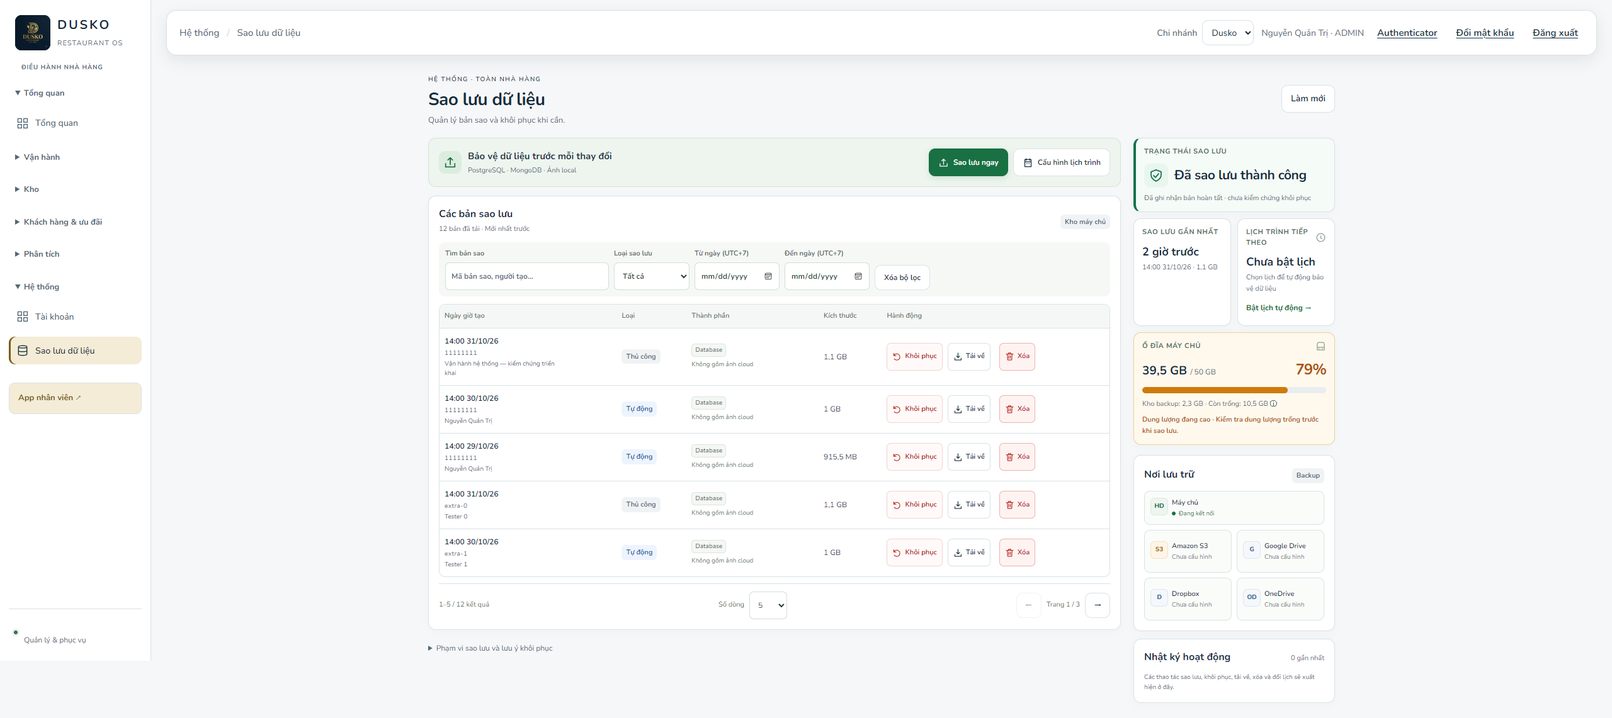
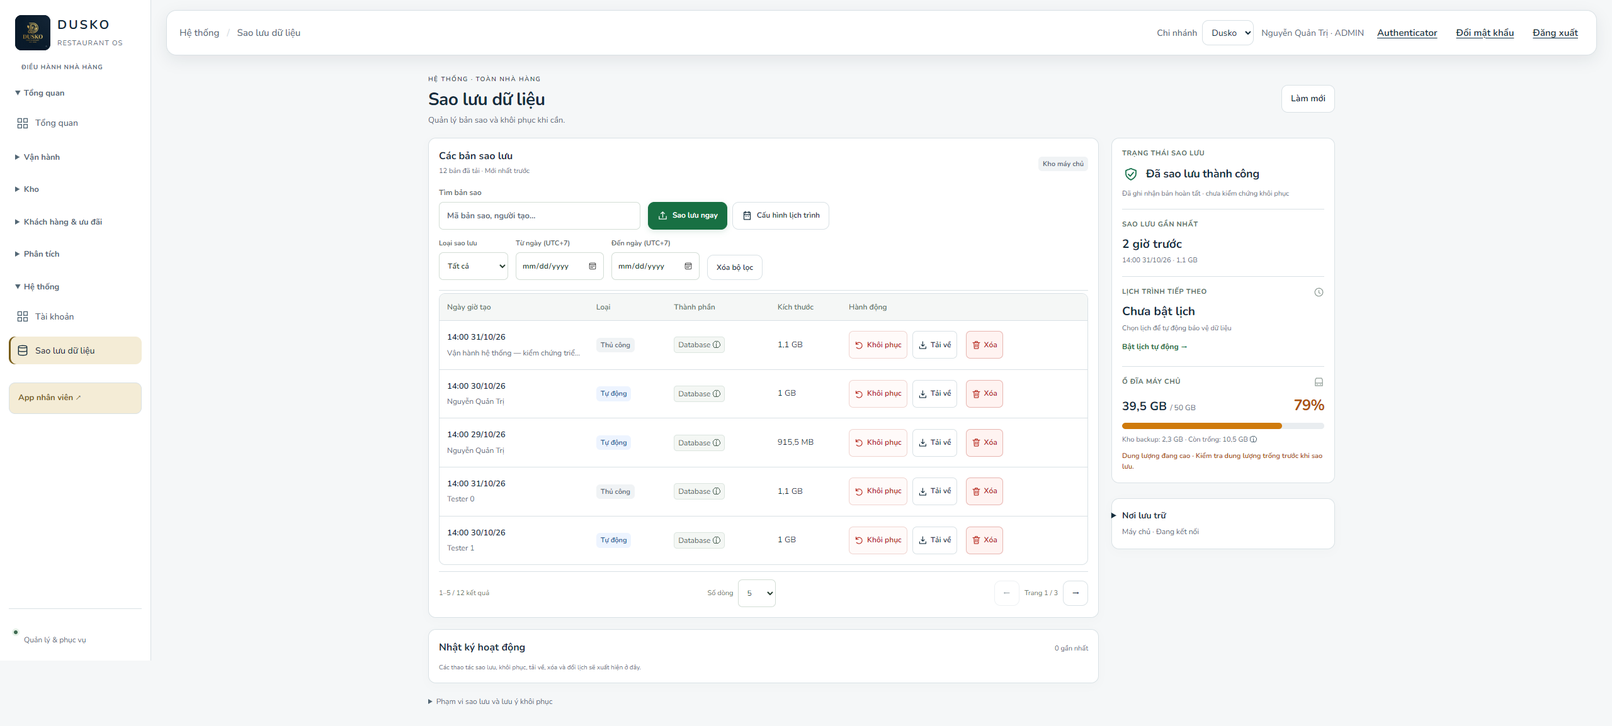
refactor: rebalance backup workspace and unify archive toolbar

diff --git a/src/backup-status.css b/src/backup-status.css
@@ -6,39 +6,37 @@
 .backup-console .bk-heading p{font-size:13px;margin:0;color:var(--muted)}
 .bk-workspace{display:grid;grid-template-areas:"overview" "main" "secondary";gap:16px;align-items:start}
 .bk-main{grid-area:main;min-width:0;display:grid;gap:14px;align-content:start}
-.bk-overview{grid-area:overview;display:grid;grid-template-columns:repeat(2,minmax(0,1fr));gap:10px;min-width:0}
+.bk-overview{grid-area:overview;display:grid;grid-template-columns:repeat(2,minmax(0,1fr));gap:0;min-width:0;background:#fff;border:1px solid var(--bk-line);border-radius:12px;padding:0 16px}
+.bk-overview>.bk-card{border:0;border-bottom:1px solid var(--bk-line);border-radius:0;padding:16px 0;background:#fff;box-shadow:none}.bk-overview>.bk-card:last-child{border-bottom:0}
 .bk-card{background:var(--panel,#fff);border:1px solid var(--bk-line);border-radius:12px;padding:16px;min-width:0;box-shadow:0 4px 16px #18344b05}
 .bk-card-label{display:flex;justify-content:space-between;align-items:center;gap:8px;margin-bottom:10px;font-size:11px;font-weight:750;letter-spacing:.05em;color:#62746b;line-height:1.5}
 .bk-card-label svg{width:17px;height:17px;flex:none;opacity:.7}
 .bk-card small{display:block;font-size:11px;color:var(--muted);line-height:1.6}
 .bk-value{display:block;font-size:21px;line-height:1.35;margin-bottom:4px}
-.bk-health{grid-column:1/-1;border-left:4px solid #c17a12}
+.bk-health{grid-column:1/-1}
 .bk-health-title{display:flex;gap:10px;align-items:center;margin-bottom:8px}
-.bk-health-title h2{font-size:21px;line-height:1.35;margin:0;letter-spacing:-.02em}
-.bk-health-icon{display:grid;place-items:center;width:38px;height:38px;flex:none;border-radius:10px;background:#fff4dc;color:#946a10}
+.bk-health-title h2{font-size:18px;line-height:1.35;margin:0;letter-spacing:-.02em}
+.bk-health-icon{display:grid;place-items:center;width:28px;height:28px;flex:none;background:transparent;color:#946a10}
 .bk-health-icon svg{width:24px;height:24px}
-.bk-health--success{border-left-color:var(--bk-green);background:#f5fbf7}
-.bk-health--success .bk-health-icon{background:#e9f6ee;color:var(--bk-green)}
-.bk-health--danger{border-left-color:var(--bk-red)}
-.bk-health--danger .bk-health-icon{background:#fff0ee;color:var(--bk-red)}
-.bk-health--info{border-left-color:var(--bk-blue);background:#f5f9ff}
-.bk-health--info .bk-health-icon{background:#e5effc;color:var(--bk-blue)}
+.bk-health--success{color:inherit}
+.bk-health--success .bk-health-icon{background:transparent;color:var(--bk-green)}
+.bk-health--danger{color:inherit}
+.bk-health--danger .bk-health-icon{background:transparent;color:var(--bk-red)}
+.bk-health--info{color:inherit}
+.bk-health--info .bk-health-icon{background:transparent;color:var(--bk-blue)}
 .bk-schedule-shortcut{border:0;padding:6px 0 0;background:transparent;color:var(--bk-accent);font-size:12px;font-weight:750;min-height:36px;text-align:left}
-.bk-storage{grid-column:1/-1;background:#f6f9f7;border-color:#cddbd2}
+.bk-storage{grid-column:1/-1;background:#fff}
 .bk-storage-numbers{display:flex;align-items:baseline;gap:5px;font-size:12px;margin-bottom:10px;flex-wrap:wrap}
 .bk-storage-numbers strong{font-size:19px}.bk-storage-numbers span{color:var(--muted)}.bk-storage-numbers b{margin-left:auto;font-size:24px;letter-spacing:-.04em}
 .bk-storage small{margin-top:8px}.bk-storage-placeholder{height:10px;border-radius:8px;background:#edf0f2}
 .bk-storage-alert{margin:8px 0 0;color:var(--bk-orange);font-size:11px;font-weight:650;line-height:1.6}
-.bk-storage--warning{background:#fff9ed;border-color:#edcf94}.bk-storage--warning .bk-storage-numbers b{color:var(--bk-orange)}
-.bk-storage--danger{background:#fff4f2;border-color:#edb4ad}.bk-storage--danger .bk-storage-numbers b,.bk-storage--danger .bk-storage-alert{color:var(--bk-red)}
+.bk-storage--warning{background:#fff}.bk-storage--warning .bk-storage-numbers b{color:var(--bk-orange)}
+.bk-storage--danger{background:#fff}.bk-storage--danger .bk-storage-numbers b,.bk-storage--danger .bk-storage-alert{color:var(--bk-red)}
 .bk-meter{appearance:none;-webkit-appearance:none;display:block;width:100%;height:10px;border:0;border-radius:99px;overflow:hidden;background:#e9edf0;color:var(--bk-accent)}
 .bk-meter::-webkit-progress-bar{background:#e9edf0;border-radius:99px}.bk-meter::-webkit-progress-value{background:var(--bk-accent);border-radius:99px;transition:width .3s}.bk-meter::-moz-progress-bar{background:var(--bk-accent);border-radius:99px}
 .bk-meter--warning::-webkit-progress-value{background:#cf7a0b}.bk-meter--warning::-moz-progress-bar{background:#cf7a0b}
 .bk-meter--danger::-webkit-progress-value{background:var(--bk-red)}.bk-meter--danger::-moz-progress-bar{background:var(--bk-red)}
-.bk-quick{display:flex;justify-content:space-between;align-items:center;flex-wrap:wrap;gap:14px;padding:16px;background:#edf5ee;border:1px solid #d4e3d6;border-radius:12px}
-.bk-quick>div:first-child{display:flex;gap:10px;align-items:center;max-width:300px}
-.bk-quick-icon{display:grid;place-items:center;width:36px;height:36px;flex:none;background:#dcecdf;border-radius:10px;color:var(--bk-accent)}
-.bk-quick h2{font-size:15px;margin:0 0 4px;line-height:1.5}.bk-quick p{margin:0;font-size:11px;color:var(--muted)}
+.bk-toolbar{display:flex;gap:12px;align-items:flex-end;flex-wrap:wrap;margin:16px 0 14px}.bk-toolbar .bk-search{display:grid;gap:6px;flex:1 1 200px;max-width:320px;font-size:12px;font-weight:650;color:#56675e}.bk-toolbar input{width:100%;min-width:0;height:44px;min-height:44px;padding:10px 12px;border:1px solid #d3ddd5;border-radius:7px;background:#fff;font-size:13px}.bk-toolbar .bk-quick-buttons{margin-left:0}
 .bk-quick-buttons{display:flex;gap:8px;flex-wrap:wrap;align-items:center}
 .backup-console .bk-quick-buttons .btn{display:inline-flex;align-items:center;justify-content:center;gap:7px;min-height:44px;padding:10px 14px;font-size:12px;white-space:nowrap;flex:none}
 .bk-quick-buttons .btn svg{width:17px;height:17px}
@@ -55,37 +53,39 @@
 @media(prefers-reduced-motion:reduce){.bk-running .bk-badge--info:before{animation:none}.bk-meter::-webkit-progress-value{transition:none}}
 .bk-error{color:var(--bk-red)!important;font-size:13px}
 .bk-badge{display:inline-flex;align-items:center;white-space:nowrap;padding:4px 7px;border-radius:6px;background:#f0f3f5;color:#596a76;font-size:11px;font-weight:650;line-height:1.4}
-.bk-badge--success{background:#eaf6ef;color:var(--bk-green)}.bk-badge--danger{background:#fff0ee;color:var(--bk-red)}.bk-badge--warning{background:#fff4dc;color:#946a10}.bk-badge--info{background:#edf4ff;color:var(--bk-blue)}
+.bk-badge--success{background:#eaf6ef;color:var(--bk-green)}.bk-badge--danger{background:transparent;color:var(--bk-red)}.bk-badge--warning{background:#fff4dc;color:#946a10}.bk-badge--info{background:#edf4ff;color:var(--bk-blue)}
 .bk-section-head{display:flex;justify-content:space-between;align-items:center;gap:10px;margin-bottom:12px}
 .bk-section-head h2{font-size:16px;margin:0}.bk-section-head p,.bk-section-head>span{margin:4px 0 0;font-size:11px;color:var(--muted)}
-.bk-filters{display:grid;grid-template-columns:repeat(2,minmax(0,1fr));gap:10px;align-items:end;padding:10px;background:#f6f8f6;border-radius:9px;margin-bottom:12px;justify-content:start}
+.bk-filters{display:grid;grid-template-columns:repeat(2,minmax(0,1fr));gap:12px;align-items:end;padding:0 0 16px;border-bottom:1px solid var(--bk-line);margin-bottom:4px;justify-content:start}
 .bk-filters label{display:grid;gap:6px;font-size:11px;font-weight:650;color:#56675e;min-width:0}
-.bk-filters .bk-search{grid-column:1/-1}.bk-filters label:nth-child(2){grid-column:1/-1}
+
 .bk-filters input,.bk-filters select,.bk-pagination select{height:44px;min-height:44px;border:1px solid #d3ddd5;border-radius:7px;padding:8px 9px;background:#fff;color:#263e30;min-width:0;width:100%;font-size:12px}
 .bk-filters .btn{min-height:40px;font-size:12px;grid-column:1/-1;justify-self:start}
-.bk-filters input:focus-visible,.bk-filters select:focus-visible,.bk-pagination select:focus-visible,.backup-console button:focus-visible,.bk-help summary:focus-visible{outline:2px solid #187043;outline-offset:3px}
-.backup-console .bk-archives table{min-width:720px;width:100%;border-collapse:collapse;table-layout:auto}
-.backup-console .bk-archives th{padding:10px 8px;text-transform:none;letter-spacing:0;font-size:11px;white-space:nowrap;background:#f5f7f6;color:#607268}
-.backup-console .bk-archives td{padding:11px 8px;font-size:12px;vertical-align:middle;border-bottom:1px solid var(--bk-line);white-space:normal}
-.bk-archives tbody tr:last-child td{border-bottom:0}.bk-archives td strong{font-size:12px;font-weight:650;white-space:nowrap}
-.bk-archive-id{font-size:10px!important;letter-spacing:.05em;margin-top:2px}.bk-archive-actor{overflow-wrap:anywhere;max-width:180px;margin-top:2px;font-size:10px!important;line-height:1.5!important}
+.bk-toolbar input:focus-visible,.bk-filters select:focus-visible,.bk-pagination select:focus-visible,.backup-console button:focus-visible,.bk-help summary:focus-visible{outline:2px solid #187043;outline-offset:3px}
+.backup-console .bk-archives table{min-width:740px;width:100%;border-collapse:collapse;table-layout:fixed}
+.backup-console .bk-archives th{padding:12px;text-transform:none;letter-spacing:0;font-size:12px;white-space:nowrap;background:#f5f7f6;color:#607268}
+.backup-console .bk-archives td{padding:16px 12px;font-size:13px;line-height:1.65;vertical-align:middle;border-bottom:1px solid var(--bk-line);white-space:normal}
+.bk-archives th:nth-child(1){width:23%}.bk-archives th:nth-child(2){width:12%}.bk-archives th:nth-child(3){width:16%}.bk-archives th:nth-child(4){width:11%}.bk-archives th:nth-child(5){width:38%}
+.bk-archives tbody tr:last-child td{border-bottom:0}.bk-archives td strong{font-size:13px;font-weight:650;white-space:nowrap}
+.bk-archive-id{display:none!important}.bk-archive-actor{width:100%;max-width:220px;min-width:0;margin-top:4px;font-size:12px!important;line-height:1.6!important;white-space:nowrap;overflow:hidden;text-overflow:ellipsis}
 .bk-components{display:flex;gap:4px;flex-wrap:wrap;max-width:130px}
-.bk-component{display:inline-flex;border:1px solid #dce5df;background:#f4f7f4;border-radius:5px;padding:2px 5px;font-size:10px;white-space:nowrap;line-height:1.5;color:#4b6254}
+.bk-component{display:inline-flex;border:1px solid #dce5df;background:#f4f7f4;border-radius:5px;padding:3px 6px;font-size:12px;white-space:nowrap;line-height:1.5;color:#4b6254}
 .bk-cloud-note{font-size:10px;color:#65746b;white-space:nowrap;width:100%;line-height:1.6}
 .bk-row-actions{display:flex;align-items:center;gap:8px}
-.bk-action{display:inline-flex;align-items:center;justify-content:center;gap:5px;font:inherit;font-size:11px;font-weight:650;border:1px solid var(--bk-line);background:#fff;border-radius:7px;min-height:44px;padding:8px;white-space:nowrap;cursor:pointer;color:var(--ink)}
+.bk-action{display:inline-flex;align-items:center;justify-content:center;gap:5px;font:inherit;font-size:12px;font-weight:650;border:1px solid var(--bk-line);background:#fff;border-radius:7px;min-height:44px;padding:8px;white-space:nowrap;cursor:pointer;color:var(--ink)}
 .bk-action svg{width:15px;height:15px;flex:none}.bk-action--danger{color:var(--bk-red);border-color:#f0d4d0;background:#fffaf9}.bk-action:not(:disabled):hover{filter:brightness(.96)}
 .bk-row-actions [data-backup=delete]{margin-left:6px;border-color:#e7b5b0;background:#fff3f1}
 .bk-pagination{display:flex;align-items:center;justify-content:space-between;gap:10px;flex-wrap:wrap;border-top:1px solid var(--bk-line);padding-top:12px;margin-top:10px;color:#5c7062;font-size:11px}
 .bk-pagination label,.bk-pagination nav{display:flex;align-items:center;gap:8px}.bk-pagination select{width:60px}.bk-pagination nav button{min-width:40px;min-height:40px;padding:8px}
 .bk-footnote{font-size:12px;color:#946a10;margin:12px 0 0;line-height:1.6}.bk-empty{text-align:center;padding:28px 12px;color:var(--muted)}.bk-empty>svg{width:32px;height:32px;opacity:.6}.bk-empty h3{font-size:16px;color:var(--ink);margin:12px 0 6px}.bk-empty p{font-size:12px;margin:0;line-height:1.6}
-.bk-bottom{grid-area:secondary;display:grid;gap:12px;min-width:0;align-content:start}
+.bk-bottom{grid-area:secondary;display:grid;gap:24px;min-width:0;align-content:start}
 .bk-destinations{display:grid;grid-template-columns:repeat(2,minmax(0,1fr));gap:8px;align-items:start}
 .bk-destination{display:grid;grid-template-columns:28px minmax(0,1fr);gap:3px 6px;padding:9px;border:1px solid var(--bk-line);border-radius:9px;background:#fafcfa;min-width:0;min-height:68px;align-content:center}
 .bk-destination:first-child{grid-column:1/-1;min-height:54px}.bk-destination strong{font-size:11px;font-weight:600;overflow-wrap:anywhere;line-height:1.4}
 .bk-provider{grid-row:1/3;width:28px;height:28px;display:grid;place-items:center;flex:none;font-size:10px;font-weight:800;border:1px solid #dce5ef;border-radius:7px;background:#f4f8fc;color:#3b6691}
 .bk-provider--local{background:#edf5f0;color:#23724b;border-color:#dbeade}.bk-provider--s3{background:#fff5e6;border-color:#f3e0c2;color:#af6a0d}
 .bk-connection{font-size:10px;color:#738078;line-height:1.4}.bk-connection.is-connected{color:var(--bk-green)}.bk-connection.is-connected:before{content:'';display:inline-block;width:6px;height:6px;border-radius:50%;background:currentColor;margin-right:5px}
+.bk-main>.bk-activity{margin-top:4px}.bk-destination-panel summary{cursor:pointer;list-style:disclosure-closed;font-size:14px;line-height:1.6}.bk-destination-panel[open] summary{list-style:disclosure-open}.bk-destination-panel summary span{display:block;font-size:12px;color:var(--muted);margin-top:5px}.bk-destination-panel .bk-destinations{margin-top:16px}
 .bk-activity ol{list-style:none;margin:0;padding:0;max-height:240px;overflow:auto}
 .bk-activity li{display:flex;align-items:flex-start;gap:8px;padding:10px 0;border-bottom:1px solid var(--bk-line)}.bk-activity li:first-child{padding-top:0}.bk-activity li:last-child{border:0;padding-bottom:0}.bk-activity li>div{flex:1;min-width:0}
 .bk-activity strong{font-size:12px}.bk-activity p{font-size:10px;color:var(--muted);margin:4px 0 0;line-height:1.6;overflow-wrap:anywhere}.bk-activity .bk-badge{font-size:10px;padding:4px 5px}
@@ -94,35 +94,30 @@
 .bk-help{color:var(--muted);font-size:12px}.bk-help summary{cursor:pointer;display:list-item;padding:6px 0}.bk-help p{line-height:1.7;max-width:760px}
 /* Adapt to the actual content width, including the space consumed by navigation. */
 @container(min-width:620px){
- .bk-filters{grid-template-columns:minmax(160px,240px) 130px minmax(120px,145px) minmax(120px,145px);gap:10px}
- .bk-filters .bk-search,.bk-filters label:nth-child(2){grid-column:auto}.bk-filters>.btn{grid-column:1/-1;justify-self:end}
- .bk-bottom{grid-template-columns:repeat(2,minmax(0,1fr))}
+ .bk-filters{grid-template-columns:110px 140px 140px auto}.bk-filters>.btn{grid-column:auto;justify-self:start}
+ .bk-bottom{grid-template-columns:1fr}
 }
 @container(min-width:800px){
  .bk-overview{grid-template-columns:1.3fr 1fr 1fr}.bk-health{grid-column:auto}.bk-storage{display:grid;grid-template-columns:minmax(180px,1fr) minmax(240px,1.5fr);gap:8px 20px;align-items:center}
  .bk-storage .bk-card-label{grid-column:1/-1;margin:0}.bk-storage-numbers{margin:0}.bk-storage small{grid-column:2;margin:0}.bk-storage-alert{grid-column:1;grid-row:3;margin:0}
- .bk-filters{grid-template-columns:minmax(160px,240px) 120px 135px 135px auto}.bk-filters>.btn{grid-column:auto;justify-self:start}
+
 }
 @container(min-width:1080px){
- .bk-workspace{grid-template-columns:minmax(0,1fr) 300px;grid-template-rows:auto 1fr;grid-template-areas:"main overview" "main secondary";gap:14px 18px}
- .bk-overview{grid-template-columns:repeat(2,minmax(0,1fr));gap:10px}.bk-health{grid-column:1/-1}.bk-overview>.bk-card{padding:13px}.bk-value{font-size:18px}.bk-health-title h2{font-size:21px}
+ .bk-workspace{grid-template-columns:minmax(0,3fr) minmax(0,1fr);grid-template-rows:auto 1fr;grid-template-areas:"main overview" "main secondary";gap:24px 20px}
+ .bk-overview{grid-template-columns:1fr;gap:0}.bk-health{grid-column:1/-1}.bk-value{font-size:19px}
  .bk-storage{display:block}.bk-storage .bk-card-label{margin-bottom:10px}.bk-storage-numbers{margin-bottom:10px}.bk-storage small{margin-top:8px}.bk-storage-alert{margin:8px 0 0}
- .bk-bottom{grid-template-columns:1fr}.bk-quick>div:first-child{max-width:280px}
- .bk-filters{grid-template-columns:minmax(140px,240px) 100px 120px 120px auto;gap:8px}.bk-filters>.btn{grid-column:auto;justify-self:start}
-}
-@container(min-width:1320px){
- .bk-workspace{grid-template-columns:minmax(0,1fr) 320px;gap:16px 20px}
- .bk-filters{grid-template-columns:minmax(160px,260px) 120px 135px 135px auto}.bk-filters>.btn{grid-column:auto;justify-self:start}
+ .bk-bottom{grid-template-columns:1fr}
+
 }
 @container(max-width:619px){
- .bk-card{padding:14px}.bk-heading>.btn{font-size:12px;padding:8px 10px;min-height:40px}.bk-quick-icon{display:none}.bk-quick-buttons{display:grid;grid-template-columns:1fr;width:100%}.backup-console .bk-quick-buttons .btn{width:100%}
- .bk-filters>.btn{justify-self:stretch}
+ .bk-card{padding:14px}.bk-heading>.btn{font-size:12px;padding:8px 10px;min-height:40px}.bk-toolbar .bk-search{max-width:none;flex-basis:100%}.bk-quick-buttons{display:grid;grid-template-columns:1fr 1fr;width:100%}.backup-console .bk-quick-buttons .btn{width:100%}
+ .bk-filters>.btn{justify-self:start;grid-column:auto}.bk-filters label:first-child{grid-column:1/-1}
 }
 @container(max-width:759px){
  .bk-archives .table-scroll{border:0;overflow:visible}.backup-console .bk-archives table,.bk-archives tbody{display:block;min-width:0;width:100%}.bk-archives thead{display:none}
  .bk-archives tr{display:block;padding:12px 0;border-bottom:1px solid var(--bk-line)}.bk-archives tr:first-child{padding-top:0}.bk-archives tr:last-child{padding-bottom:0;border-bottom:0}
  .backup-console .bk-archives td{display:flex;gap:10px;justify-content:space-between;align-items:center;border:0;padding:7px 0;text-align:right}
- .bk-archives td:before{content:attr(data-label);text-align:left;color:var(--muted);font-size:11px;min-width:74px}.bk-archives td:first-child{flex-wrap:wrap}.bk-archive-id{display:none!important}.bk-archive-actor{flex-basis:100%;max-width:none;margin:0;text-align:right}
+ .bk-archives td:before{content:attr(data-label);text-align:left;color:var(--muted);font-size:11px;min-width:74px}.bk-archives td:first-child{flex-wrap:wrap}.bk-archive-id{display:none!important}.bk-archive-actor{flex-basis:100%;max-width:100%;margin:0;text-align:right}
  .bk-components{justify-content:flex-end;max-width:none}.bk-cloud-note{width:auto}.backup-console .bk-archives td[data-label="Hành động"]{display:block;padding-top:12px}.bk-archives td[data-label="Hành động"]:before{display:none}
  .bk-row-actions{display:grid;grid-template-columns:1.2fr 1fr .8fr;gap:10px}.bk-action{padding:8px 5px}.bk-row-actions [data-backup=delete]{margin-left:0}.bk-pagination>span{flex-basis:100%}.bk-running-head strong{font-size:13px}
 }

diff --git a/src/backup-console.js b/src/backup-console.js
@@ -42,25 +42,25 @@ export function backupStatusHtml(data,view={}) {
     <div class="page-head bk-heading"><div><span class="eyebrow">HỆ THỐNG · TOÀN NHÀ HÀNG</span><h1>Sao lưu dữ liệu</h1><p>Quản lý bản sao và khôi phục khi cần.</p></div><button class="btn secondary" data-backup="refresh">Làm mới</button></div>
     <div class="bk-workspace">
     <div class="bk-overview">
-      <section class="bk-card bk-health bk-health--${tone}"><div class="bk-card-label">TRẠNG THÁI SAO LƯU</div><div class="bk-health-title"><span class="bk-health-icon">${icons.shield}</span><h2>${e(status)}</h2></div><small>${active?'Theo dõi công đoạn và tiến độ ngay bên dưới':latest?'Đã ghi nhận bản hoàn tất · chưa kiểm chứng khôi phục':'Chưa có bản ghi tại kho đang theo dõi'}</small></section>
+      <section class="bk-card bk-health bk-health--${tone}"><div class="bk-card-label">TRẠNG THÁI SAO LƯU</div><div class="bk-health-title"><span class="bk-health-icon">${icons.shield}</span><h2>${e(status)}</h2></div><small>${active?'Theo dõi tiến độ tại khu vực tác vụ':latest?'Đã ghi nhận bản hoàn tất · chưa kiểm chứng khôi phục':'Chưa có bản ghi tại kho đang theo dõi'}</small></section>
       <section class="bk-card"><div class="bk-card-label">SAO LƯU GẦN NHẤT</div><strong class="bk-value">${e(relative)}</strong><small>${latest?e(dateTime(latest.createdAt)):'—'}${latest?` · ${e(backupSize(latest.bytes))}`:''}</small></section>
       <section class="bk-card"><div class="bk-card-label">LỊCH TRÌNH TIẾP THEO ${icons.clock}</div><strong class="bk-value">${e(frequency)}</strong><small>${schedule.nextRunAt?e(dateTime(schedule.nextRunAt))+' · UTC+7':'Chọn lịch để tự động bảo vệ dữ liệu'}</small><button class="bk-schedule-shortcut" data-backup="schedule" ${locked?'disabled':''}>${schedule.frequency==='OFF'?'Bật lịch tự động →':'Chỉnh lịch →'}</button>${schedule.lastError?`<small class="bk-error">${e(schedule.lastError)}</small>`:''}</section>
       <section class="bk-card bk-storage bk-storage--${diskTone}"><div class="bk-card-label">Ổ ĐĨA MÁY CHỦ ${icons.disk}</div><div class="bk-storage-numbers"><strong>${storage?e(backupSize(storage.usedBytes)):'—'}</strong><span>/ ${storage?e(backupSize(storage.totalBytes)):'chưa đọc được dung lượng'}</span><b>${percent===null?'—':Math.round(percent)+'%'}</b></div>${percent===null?'<div class="bk-storage-placeholder"></div>':`<progress class="bk-meter bk-meter--${diskTone}" max="100" value="${percent}" aria-label="Dung lượng ổ đĩa đã dùng">${Math.round(percent)}%</progress>`}<small>${storage?`Kho backup: ${storage.partial?'≥ ':''}${e(backupSize(storage.backupBytes))} · Còn trống: ${e(backupSize(storage.freeBytes))}`:'Chưa kết nối kho lưu'} <span title="Dung lượng toàn ổ đĩa, bao gồm dữ liệu ngoài kho backup.">ⓘ</span></small>${percent>=75?`<p class="bk-storage-alert" role="status">${percent>=90?'Sắp hết dung lượng':'Dung lượng đang cao'} · Kiểm tra dung lượng trống trước khi sao lưu.</p>`:''}</section>
     </div>
     <div class="bk-main">
-    <section class="bk-quick"><div><span class="bk-quick-icon">${icons.backup}</span><div><h2>Bảo vệ dữ liệu trước mỗi thay đổi</h2><p>PostgreSQL · MongoDB · Ảnh local</p></div></div><div class="bk-quick-buttons"><button class="btn primary bk-primary" data-backup="create" ${cap.canCreate?'':'disabled'}>${icons.backup}${error?'Thử lại sao lưu':'Sao lưu ngay'}</button><button class="btn secondary" data-backup="schedule" ${locked?'disabled':''}>${icons.schedule}Cấu hình lịch trình</button></div></section>
     ${!cap.canCreate?`<p class="bk-capability" role="status">${e(cap.reason||'Chức năng tạo backup chưa được bật trên máy chủ.')}</p>`:''}
     ${active?`<section class="bk-card bk-running" aria-live="polite"><div class="bk-running-head"><div>${badge(backupStates[active.state]||'Đang xử lý',active.stalled||active.state==='FAILED'?'danger':'info')}<strong>${e(operations[active.operation||'BACKUP'])} · ${e(phases[active.phase]||'Chuẩn bị')}</strong></div><b>${progress}%</b></div><progress class="bk-meter" max="100" value="${progress}" aria-label="Tiến độ tác vụ">${progress}%</progress><small>${active.stalled?'Tác vụ mất tín hiệu; cần vận hành kiểm tra.':'Tiến độ theo công đoạn · trạng thái được cập nhật tự động'}</small>${active.message?`<p class="bk-error">${e(active.message)}</p>`:''}</section>`:''}
     <section class="bk-card bk-archives"><div class="bk-section-head"><div><h2>Các bản sao lưu</h2><p>${e(backups.length)} bản đã tải${data.truncated?' · danh sách chưa đầy đủ':''} · Mới nhất trước</p></div>${badge('Kho máy chủ')}</div>
-    <div class="bk-filters" role="search" aria-label="Lọc bản sao lưu"><label class="bk-search"><span>Tìm bản sao</span><input type="search" data-backup-filter="query" value="${e(view.query||'')}" placeholder="Mã bản sao, người tạo…"></label><label><span>Loại sao lưu</span><select data-backup-filter="type">${[['','Tất cả'],['MANUAL','Thủ công'],['AUTO','Tự động'],['SAFETY','Trước khôi phục']].map(([value,label])=>`<option value="${value}" ${view.type===value?'selected':''}>${label}</option>`).join('')}</select></label><label><span>Từ ngày (UTC+7)</span><input type="date" data-backup-filter="from" value="${e(view.from||'')}"></label><label><span>Đến ngày (UTC+7)</span><input type="date" data-backup-filter="to" value="${e(view.to||'')}"></label><button class="btn secondary" data-backup="clear-filters">Xóa bộ lọc</button></div>
+    <div class="bk-toolbar"><label class="bk-search"><span>Tìm bản sao</span><input type="search" data-backup-filter="query" value="${e(view.query||'')}" placeholder="Mã bản sao, người tạo…"></label><div class="bk-quick-buttons"><button class="btn primary bk-primary" data-backup="create" ${cap.canCreate?'':'disabled'}>${icons.backup}${error?'Thử lại sao lưu':'Sao lưu ngay'}</button><button class="btn secondary" data-backup="schedule" ${locked?'disabled':''}>${icons.schedule}Cấu hình lịch trình</button></div></div>
+    <div class="bk-filters" role="search" aria-label="Lọc bản sao lưu"><label><span>Loại sao lưu</span><select data-backup-filter="type">${[['','Tất cả'],['MANUAL','Thủ công'],['AUTO','Tự động'],['SAFETY','Trước khôi phục']].map(([value,label])=>`<option value="${value}" ${view.type===value?'selected':''}>${label}</option>`).join('')}</select></label><label><span>Từ ngày (UTC+7)</span><input type="date" data-backup-filter="from" value="${e(view.from||'')}"></label><label><span>Đến ngày (UTC+7)</span><input type="date" data-backup-filter="to" value="${e(view.to||'')}"></label><button class="btn secondary" data-backup="clear-filters">Xóa bộ lọc</button></div>
     ${data.truncated?'<p class="bk-footnote" role="status">Bộ lọc chỉ áp dụng cho các bản đã tải; kho còn bản chưa được liệt kê.</p>':''}
-    ${archiveView.items.length?`<div class="table-scroll"><table><thead><tr><th>Ngày giờ tạo</th><th>Loại</th><th>Thành phần</th><th>Kích thước</th><th>Hành động</th></tr></thead><tbody>${archiveView.items.map(item=>`<tr><td data-label="Ngày giờ tạo"><strong>${e(dateTime(item.createdAt))}</strong><small class="bk-archive-id" title="${e(item.id||'')}">${e((item.id||'').slice(-8))}</small><small class="bk-archive-actor">${e(item.requestedByName||'Chưa ghi nhận')}</small></td><td data-label="Loại">${badge(({AUTO:'Tự động',SAFETY:'Trước khôi phục',MANUAL:'Thủ công'})[item.trigger]||'Thủ công',item.trigger==='AUTO'?'info':'neutral')}</td><td data-label="Thành phần"><div class="bk-components"><span class="bk-component">Database</span>${item.imageProvider==='local'?'<span class="bk-component">Ảnh local</span>':'<span class="bk-cloud-note" title="Bản sao không chứa ảnh lưu trên cloud">Không gồm ảnh cloud</span>'}</div></td><td data-label="Kích thước">${e(backupSize(item.bytes))}</td><td data-label="Hành động"><div class="bk-row-actions">${action('Khôi phục','restore',item.id,locked||!cap.canRestore||!item.canRestore,item.restoreReason||cap.restoreReason||'Ghi đè dữ liệu hiện tại')}${action('Tải về','download',item.id,locked)}${action('Xóa','delete',item.id,locked||(data.totalBackups??backups.length)<=1,(data.totalBackups??backups.length)<=1?'Giữ lại ít nhất một bản hoàn chỉnh':'Xóa để giải phóng dung lượng')}</div></td></tr>`).join('')}</tbody></table></div>`:`<div class="bk-empty">${icons.disk}<h3>${backups.length?'Không có bản sao phù hợp':'Chưa có bản sao lưu'}</h3><p>${backups.length?'Thử đổi ngày, loại hoặc từ khóa tìm kiếm.':'Tạo bản đầu tiên để bắt đầu quản lý dữ liệu tại đây.'}</p></div>`}
+    ${archiveView.items.length?`<div class="table-scroll"><table><thead><tr><th>Ngày giờ tạo</th><th>Loại</th><th>Thành phần</th><th>Kích thước</th><th>Hành động</th></tr></thead><tbody>${archiveView.items.map(item=>`<tr><td data-label="Ngày giờ tạo" title="${e(item.id||'')}"><strong>${e(dateTime(item.createdAt))}</strong><small class="bk-archive-id" title="${e(item.id||'')}">${e((item.id||'').slice(-8))}</small><small class="bk-archive-actor" title="${e(item.requestedByName||'Chưa ghi nhận')}">${e(item.requestedByName||'Chưa ghi nhận')}</small></td><td data-label="Loại">${badge(({AUTO:'Tự động',SAFETY:'Trước khôi phục',MANUAL:'Thủ công'})[item.trigger]||'Thủ công',item.trigger==='AUTO'?'info':'neutral')}</td><td data-label="Thành phần"><div class="bk-components"><span class="bk-component" tabindex="0" title="PostgreSQL và MongoDB${item.imageProvider==='local'?'':' · Không gồm ảnh cloud'}" aria-label="Database: PostgreSQL và MongoDB${item.imageProvider==='local'?'':', không gồm ảnh cloud'}">Database ⓘ</span>${item.imageProvider==='local'?'<span class="bk-component">Ảnh local</span>':''}</div></td><td data-label="Kích thước">${e(backupSize(item.bytes))}</td><td data-label="Hành động"><div class="bk-row-actions">${action('Khôi phục','restore',item.id,locked||!cap.canRestore||!item.canRestore,item.restoreReason||cap.restoreReason||'Ghi đè dữ liệu hiện tại')}${action('Tải về','download',item.id,locked)}${action('Xóa','delete',item.id,locked||(data.totalBackups??backups.length)<=1,(data.totalBackups??backups.length)<=1?'Giữ lại ít nhất một bản hoàn chỉnh':'Xóa để giải phóng dung lượng')}</div></td></tr>`).join('')}</tbody></table></div>`:`<div class="bk-empty">${icons.disk}<h3>${backups.length?'Không có bản sao phù hợp':'Chưa có bản sao lưu'}</h3><p>${backups.length?'Thử đổi ngày, loại hoặc từ khóa tìm kiếm.':'Tạo bản đầu tiên để bắt đầu quản lý dữ liệu tại đây.'}</p></div>`}
     <div class="bk-pagination" data-page="${archiveView.page}"><span role="status">${archiveView.total?`${(archiveView.page-1)*archiveView.pageSize+1}–${Math.min(archiveView.page*archiveView.pageSize,archiveView.total)}`:'0'} / ${archiveView.total} kết quả</span><label>Số dòng <select data-backup-filter="pageSize" aria-label="Số dòng mỗi trang">${[5,10,20].map(n=>`<option ${n===archiveView.pageSize?'selected':''}>${n}</option>`).join('')}</select></label><nav aria-label="Phân trang bản sao lưu"><button class="btn secondary" data-backup="previous-page" ${archiveView.page<=1?'disabled':''} aria-label="Trang trước">←</button><span>Trang ${archiveView.page} / ${archiveView.pages}</span><button class="btn secondary" data-backup="next-page" ${archiveView.page>=archiveView.pages?'disabled':''} aria-label="Trang sau">→</button></nav></div>
     ${backups.length&&!cap.canRestore?`<p class="bk-footnote">Khôi phục: ${e(cap.restoreReason||cap.reason||'Cần cập nhật cấu hình máy chủ.')}</p>`:''}${data.invalidCount?`<p class="bk-footnote">${e(data.invalidCount)} thư mục thiếu bản ghi hợp lệ hoặc chưa hoàn tất.</p>`:''}</section>
-    <details class="bk-help"><summary>Phạm vi sao lưu và lưu ý khôi phục</summary><p>Bản sao gồm dữ liệu PostgreSQL, MongoDB và ảnh local; không gồm source code, ảnh cloud hoặc khóa vận hành. SQL/Mongo được lấy tuần tự.</p><p>Khôi phục ghi đè dữ liệu, tạo bản an toàn trước khi chạy và tạm dừng nghiệp vụ. Sau khi hoàn tất phải đăng nhập lại. Nếu lỗi sau khi bắt đầu ghi, hệ thống giữ bảo trì để vận hành đối soát.</p><p>Dung lượng trên biểu đồ là toàn ổ đĩa máy chủ. Các kết nối cloud ở trạng thái chưa cấu hình chưa được dùng để lưu backup.</p></details>
+    <section class="bk-card bk-activity"><div class="bk-section-head"><h2>Nhật ký hoạt động</h2><span>${jobs.length} gần nhất</span></div>${jobs.length?`<ol>${jobs.map(job=>`<li><span class="bk-activity-dot ${job.state==='FAILED'||job.state==='INTERRUPTED'?'is-error':job.state==='COMPLETED'?'is-success':''}"></span><div><strong>${e(operations[job.operation||'BACKUP']||job.operation)}</strong><p>${e(job.requestedByName||`Tài khoản #${job.requestedBy}`)} · ${e(dateTime(job.requestedAt))}</p></div>${badge(backupStates[job.state]||job.state,job.state==='FAILED'||job.state==='INTERRUPTED'?'danger':job.state==='COMPLETED'?'success':'info')}</li>`).join('')}</ol>`:'<p class="bk-muted">Các thao tác sao lưu, khôi phục, tải về, xóa và đổi lịch sẽ xuất hiện ở đây.</p>'}</section>
+    <details class="bk-help" data-backup-detail="scope"><summary>Phạm vi sao lưu và lưu ý khôi phục</summary><p>Bản sao gồm dữ liệu PostgreSQL, MongoDB và ảnh local; không gồm source code, ảnh cloud hoặc khóa vận hành. SQL/Mongo được lấy tuần tự.</p><p>Khôi phục ghi đè dữ liệu, tạo bản an toàn trước khi chạy và tạm dừng nghiệp vụ. Sau khi hoàn tất phải đăng nhập lại. Nếu lỗi sau khi bắt đầu ghi, hệ thống giữ bảo trì để vận hành đối soát.</p><p>Dung lượng trên biểu đồ là toàn ổ đĩa máy chủ. Các kết nối cloud ở trạng thái chưa cấu hình chưa được dùng để lưu backup.</p></details>
     </div>
-    <aside class="bk-bottom" aria-label="Lưu trữ và hoạt động"><section class="bk-card"><div class="bk-section-head"><h2>Nơi lưu trữ</h2>${badge('Backup')}</div><div class="bk-destinations">${(data.destinations||[{id:'local',name:'Máy chủ',connected:data.availability==='AVAILABLE'},...['Amazon S3','Google Drive','Dropbox','OneDrive'].map(name=>({id:name,name,connected:false}))]).map(item=>`<div class="bk-destination"><span class="bk-provider bk-provider--${e(item.id==='local'?'local':item.name==='Amazon S3'?'s3':'cloud')}">${e(item.id==='local'?'HD':item.name==='Amazon S3'?'S3':item.name==='Google Drive'?'G':item.name==='Dropbox'?'D':'OD')}</span><strong>${e(item.name)}</strong><span class="bk-connection ${item.connected?'is-connected':''}">${item.connected?'Đang kết nối':'Chưa cấu hình'}</span></div>`).join('')}</div></section>
-    <section class="bk-card bk-activity"><div class="bk-section-head"><h2>Nhật ký hoạt động</h2><span>${jobs.length} gần nhất</span></div>${jobs.length?`<ol>${jobs.map(job=>`<li><span class="bk-activity-dot ${job.state==='FAILED'||job.state==='INTERRUPTED'?'is-error':job.state==='COMPLETED'?'is-success':''}"></span><div><strong>${e(operations[job.operation||'BACKUP']||job.operation)}</strong><p>${e(job.requestedByName||`Tài khoản #${job.requestedBy}`)} · ${e(dateTime(job.requestedAt))}</p></div>${badge(backupStates[job.state]||job.state,job.state==='FAILED'||job.state==='INTERRUPTED'?'danger':job.state==='COMPLETED'?'success':'info')}</li>`).join('')}</ol>`:'<p class="bk-muted">Các thao tác sao lưu, khôi phục, tải về, xóa và đổi lịch sẽ xuất hiện ở đây.</p>'}</section></aside>
+    <aside class="bk-bottom" aria-label="Nơi lưu trữ"><details class="bk-card bk-destination-panel" data-backup-detail="destinations"><summary><strong>Nơi lưu trữ</strong><span>Máy chủ · ${data.availability==='AVAILABLE'?'Đang kết nối':'Chưa kết nối'}</span></summary><div class="bk-destinations">${(data.destinations||[{id:'local',name:'Máy chủ',connected:data.availability==='AVAILABLE'},...['Amazon S3','Google Drive','Dropbox','OneDrive'].map(name=>({id:name,name,connected:false}))]).map(item=>`<div class="bk-destination"><span class="bk-provider bk-provider--${e(item.id==='local'?'local':item.name==='Amazon S3'?'s3':'cloud')}">${e(item.id==='local'?'HD':item.name==='Amazon S3'?'S3':item.name==='Google Drive'?'G':item.name==='Dropbox'?'D':'OD')}</span><strong>${e(item.name)}</strong><span class="bk-connection ${item.connected?'is-connected':''}">${item.connected?'Đang kết nối':'Chưa cấu hình'}</span></div>`).join('')}</div></details></aside>
     </div>
   </div>`;
 }

diff --git a/src/backup-admin.js b/src/backup-admin.js
@@ -13,11 +13,14 @@ export function mountBackupAdmin({root,request,canCreate=true,pollMs=4000,onAuth
   const filter=focused?.dataset?.backupFilter,action=focused?.dataset?.backup,archiveId=focused?.dataset?.archiveId;
   const selection=filter&&focused.type==='search'?[focused.selectionStart,focused.selectionEnd]:null;
   const scrolls=[...root.querySelectorAll('.table-scroll')].map(el=>el.scrollLeft);
+  const expanded=[...root.querySelectorAll('details[data-backup-detail][open]')].map(el=>el.dataset.backupDetail);
+  const focusedDetail=focused?.closest('details[data-backup-detail]')?.dataset.backupDetail;
   root.innerHTML=backupStatusHtml(data,view);
+  root.querySelectorAll('details[data-backup-detail]').forEach(el=>{el.open=expanded.includes(el.dataset.backupDetail);});
   if(failed)root.querySelectorAll('[data-backup]').forEach(el=>{if(['create','restore','delete','download','schedule'].includes(el.dataset.backup))el.disabled=true;});
   view.page=Number(root.querySelector('.bk-pagination')?.dataset.page)||1;
   root.querySelectorAll('.table-scroll').forEach((el,i)=>{el.scrollLeft=scrolls[i]||0;});
-  const target=filter?root.querySelector(`[data-backup-filter="${filter}"]`):[...root.querySelectorAll('[data-backup]')].find(el=>el.dataset.backup===action&&(!archiveId||el.dataset.archiveId===archiveId));
+  const target=filter?root.querySelector(`[data-backup-filter="${filter}"]`):focusedDetail?root.querySelector(`details[data-backup-detail="${focusedDetail}"] summary`):[...root.querySelectorAll('[data-backup]')].find(el=>el.dataset.backup===action&&(!archiveId||el.dataset.archiveId===archiveId));
   target?.focus({preventScroll:true});if(selection&&target)target.setSelectionRange(...selection);
  }
  const toast=sharedToast();
